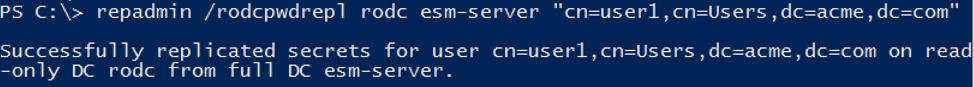
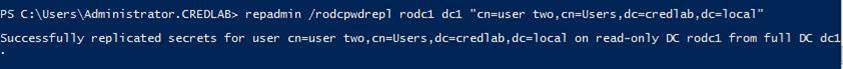
Updated repadmin command and screenshot.

Changed region(s): [[0.0, 0.0, 1.0, 1.0]]

diff --git a/docs/troubleshooting.md b/docs/troubleshooting.md
@@ -33,7 +33,7 @@ On the firewall CLI, confirm that the bloom filter is being sent.
 
 On the RODC in Windows Powershell, confirm that the password is being replicated to the RODC.
 
-`repadmin /rodcpwdrepl rodc dc1 “cn=user1,cn=Users,dc=acme,dc=com”`
+`repadmin /rodcpwdrepl rodc dc1 “cn=user one,cn=Users,dc=acme,dc=com”`
 
 ![Screenshot 5](img/troubleshooting/troubleshooting_5.png)
 
